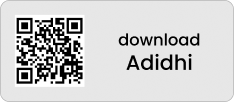
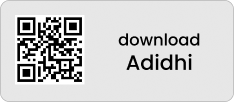
Refactor code structure for improved readability and maintainability

Changed region(s): [[0.0598, 0.1471, 0.359, 0.8529]]

diff --git a/src/app/Components/CTA.jsx b/src/app/Components/CTA.jsx
@@ -19,7 +19,7 @@ export default function CTA() {
         />
         <img
           className="object-cover w-40 h-40 mt-4"
-          src="./images/qr.png"
+          src="./images/qr.svg"
           alt=""
         />
         <p className="mt-4 text-2xl md:text-5xl lg:text-4xl max-w-sm text-center md:text-start font-bold">
